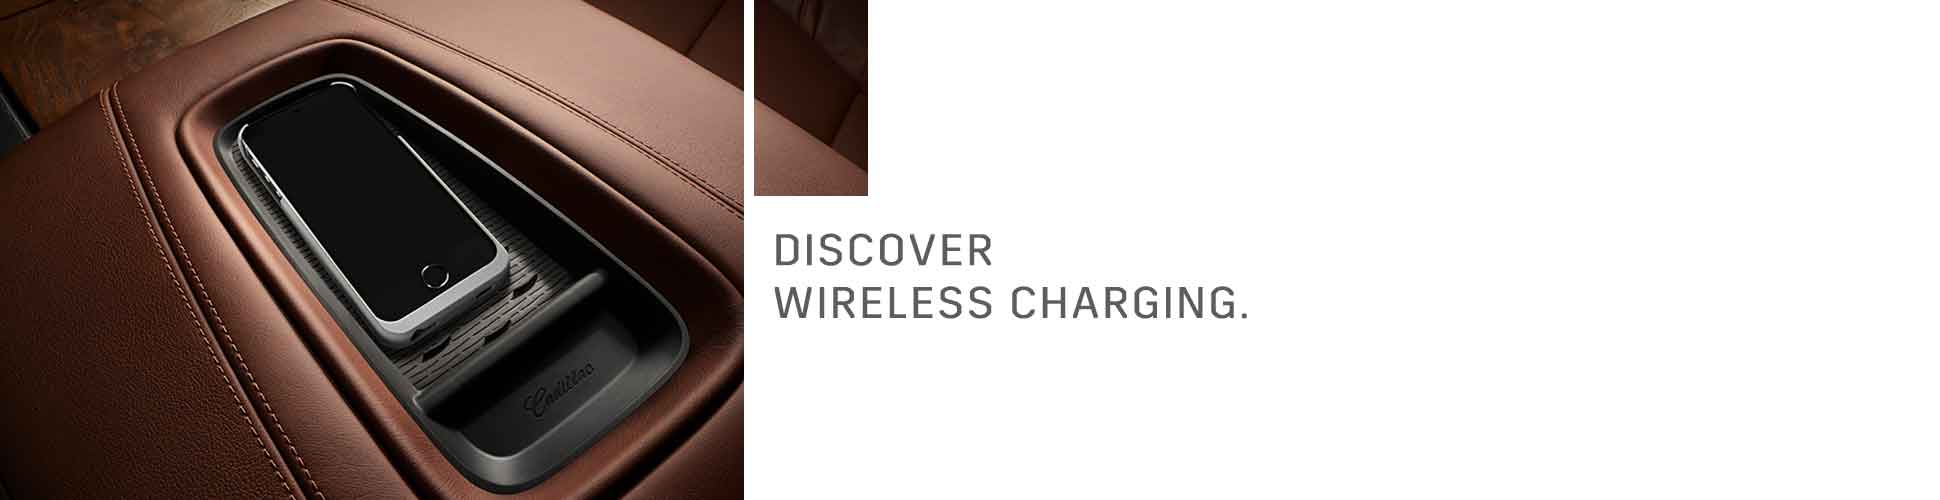
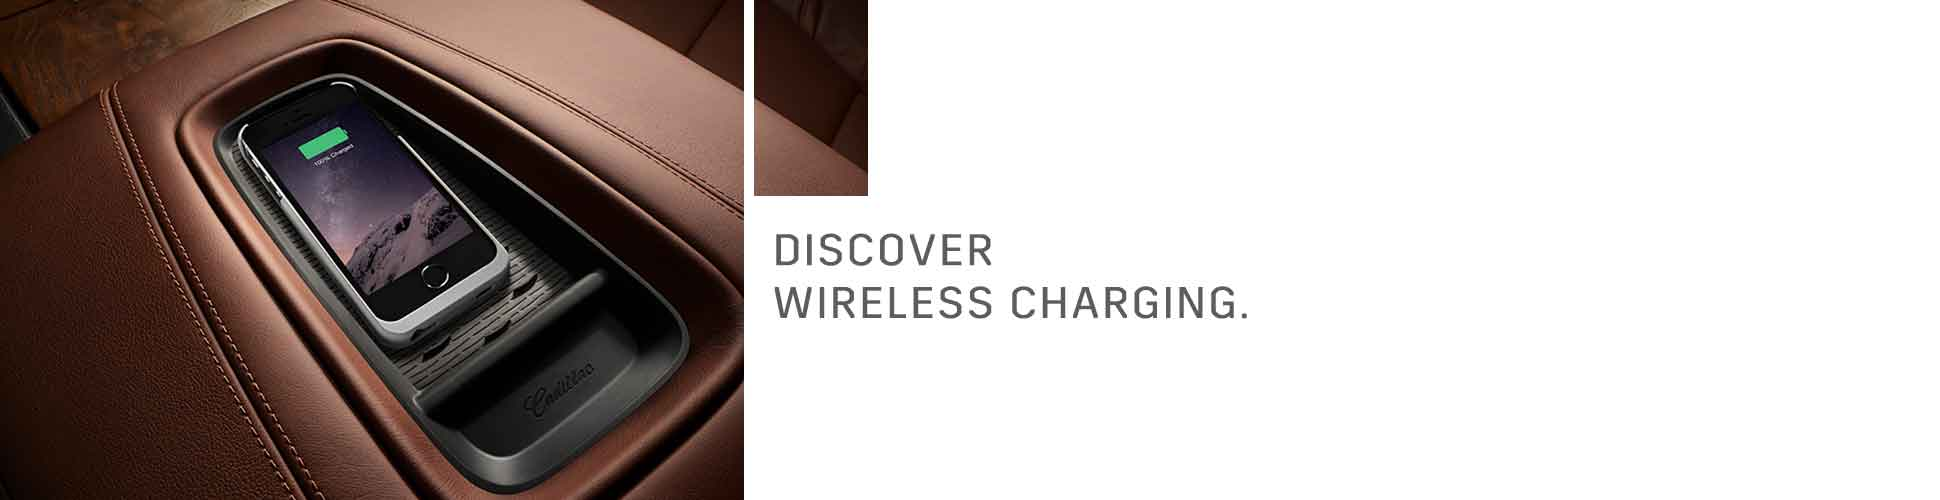
Another animation change, statics still not done

Changed region(s): [[0.1237, 0.24, 0.2474, 0.6]]

diff --git a/app/rich/templates/js/animations/en/970x250.js b/app/rich/templates/js/animations/en/970x250.js
@@ -1,18 +1,17 @@
 var easeIn = Power1.easeIn;
 var easeOut = Power1.easeOut;
 var timeline = new TimelineLite({onComplete: onComplete});
-        timeline.add('frame1')
-            .to('.copy1', 1, {opacity: 1})        
-            .addDelay(2.7, 'frame2')
-        timeline.add('frame2')
-            .to('.wipe', 0.8, { width: 810 })
-            .to('.wipe-line', 0.8, { left: 810 }, '-=0.8')
-            .to('.wipe-line', 0.3, { left: 820 })
-            .to('.background1', 0, { opacity: 0 })
-            .to('.copy1', 0, { opacity: 0 })
-            .to('.background3', 0, { opacity: 1})
-            .addDelay(2, 'frame3')
-        timeline.add('frame3')
-            .to('.wipe', 1, { opacity: 0 })
-            .to('.cta', 1, {opacity: 1},'-=0.5')
-        timeline.add('frame4')
+    timeline.add('frame1')
+        .to('.copy1', 1, {opacity: 1})
+		.addDelay(2, 'frame2')
+	timeline.add('frame2')
+		.to('.wipe', 0.8, { width: 810 })
+		.to('.wipe-line', 0.8, { left: 810 }, '-=0.8')
+		.to('.wipe-line', 0.3, { left: 820 })
+        .to('.background1', 0, { opacity: 0 })
+        .to('.copy2', 0, {opacity: 1})
+		.addDelay(1, 'frame3')
+	timeline.add('frame3')
+		.addDelay(0.5, 'cta')
+		.to('.cta', 1, { opacity: 1 }).add('cta')
+	timeline.add('frame4')

diff --git a/app/rich/templates/js/animations/en/300x600.js b/app/rich/templates/js/animations/en/300x600.js
@@ -9,10 +9,7 @@ var timeline = new TimelineLite({onComplete: onComplete});
             .to('.wipe-line', 0.5, { left: 300 }, '-=0.5')
             .to('.wipe-line', 0.3, { left: 310 })
             .to('.background1', 0, { opacity: 0 })
-            .to('.copy1', 0, { opacity: 0 })
-            .to('.background3', 0, { opacity: 1})
             .addDelay(2, 'frame3')
         timeline.add('frame3')
-            .to('.wipe', 1, { opacity: 0 })
             .to('.cta', 1, {opacity: 1},'-=0.5')
         timeline.add('frame4')

diff --git a/app/rich/templates/html/en/970x250.html b/app/rich/templates/html/en/970x250.html
@@ -1,14 +1,15 @@
 <div class="backgrounds">
     <img class="background1 item show" src="background1.jpg">
-    <img class="background3 item" src="background3.jpg">
+
 </div>
 
 <div class="wipe">
     <div class="wipe-line"></div>
     <img class="background2" src="background2.jpg">
 </div>
+
 <div class="copy">
-        <img class="copy1 item" src="copy1.png">
+        <img class="copy1 item show" src="copy1.png">
 </div>
 
 <div class="cta item">

diff --git a/app/rich/templates/html/en/300x600.html b/app/rich/templates/html/en/300x600.html
@@ -1,7 +1,5 @@
 <div class="backgrounds">
     <img class="background1 item show" src="background1.jpg">
-    <img class="background3 item" src="background3.jpg">
-
 </div>
 
 <div class="wipe">

diff --git a/app/rich/templates/css/970x250.scss b/app/rich/templates/css/970x250.scss
@@ -56,7 +56,6 @@ html, body {
         }
 
         .cta {
-            z-index: 5;
             cursor: pointer;
 
             .cta_normal,.cta_hover {
